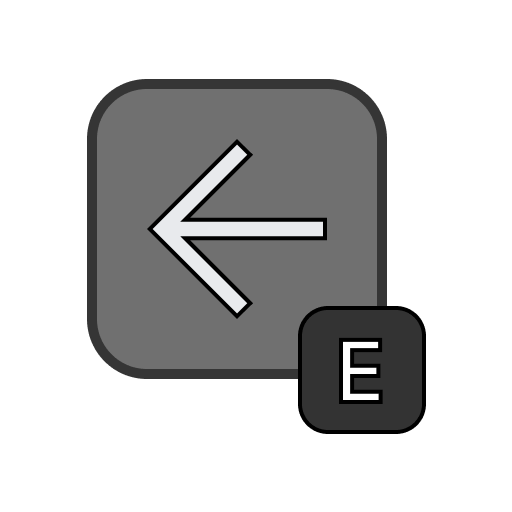
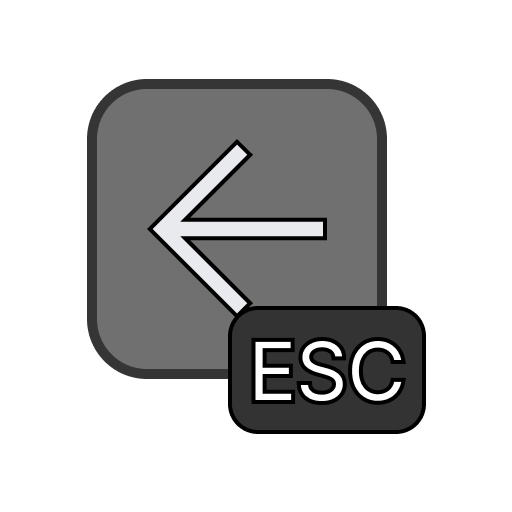
use esc

Changed region(s): [[0.4375, 0.5938, 0.8125, 0.875]]

diff --git a/Assets/GamePlay/UI/Back/BackButton.cs b/Assets/GamePlay/UI/Back/BackButton.cs
@@ -24,7 +24,7 @@ namespace GamePlay.UI.Back
 
         public void Update()
         {
-            if (Input.GetKeyDown(KeyCode.E))
+            if (Input.GetKeyDown(KeyCode.Escape))
             {
                 OnClick();
             }
